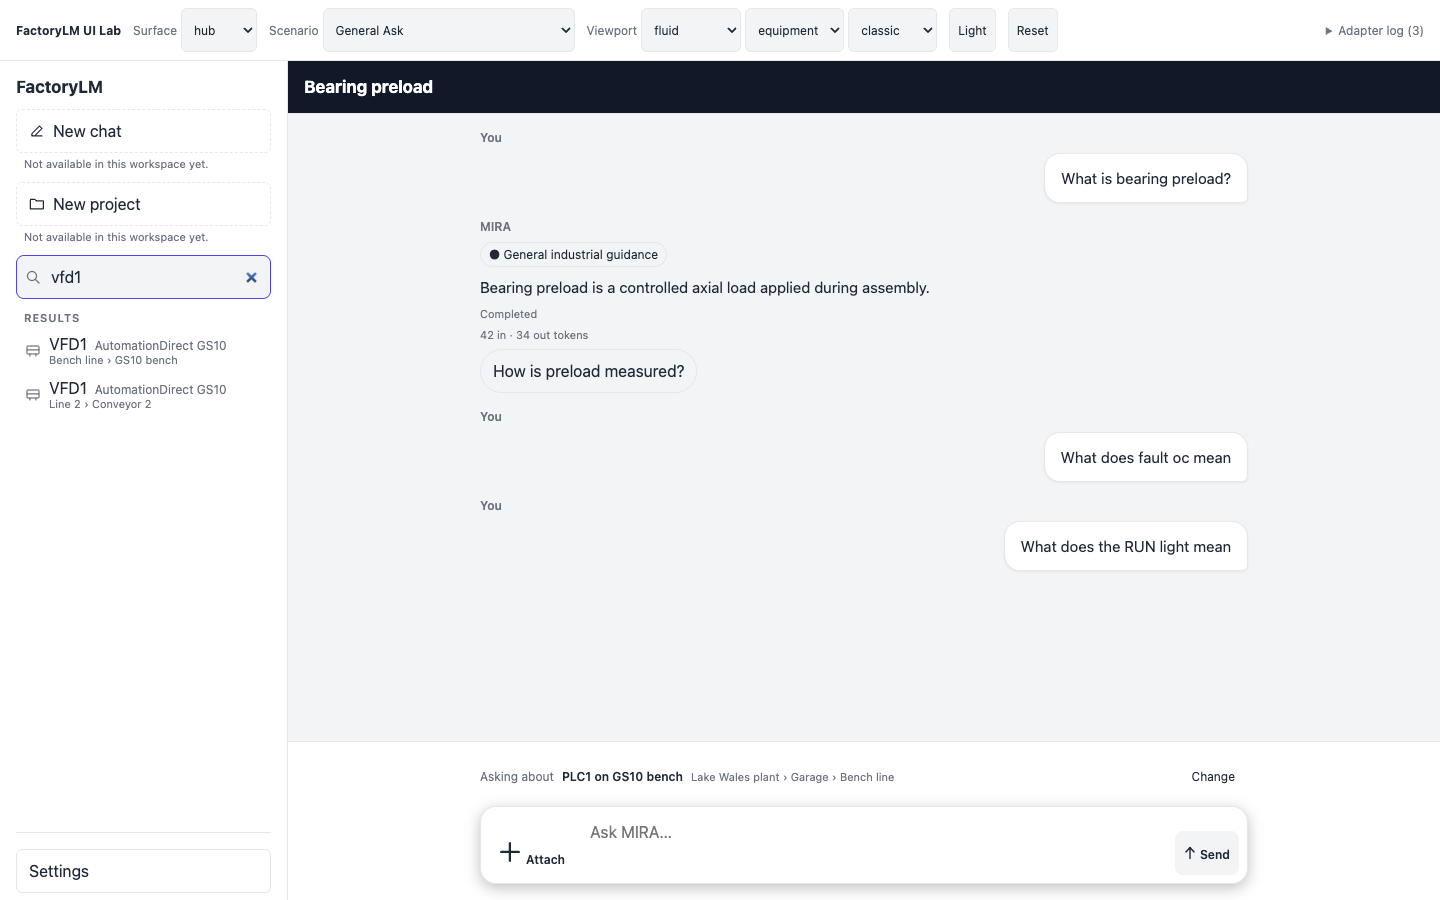
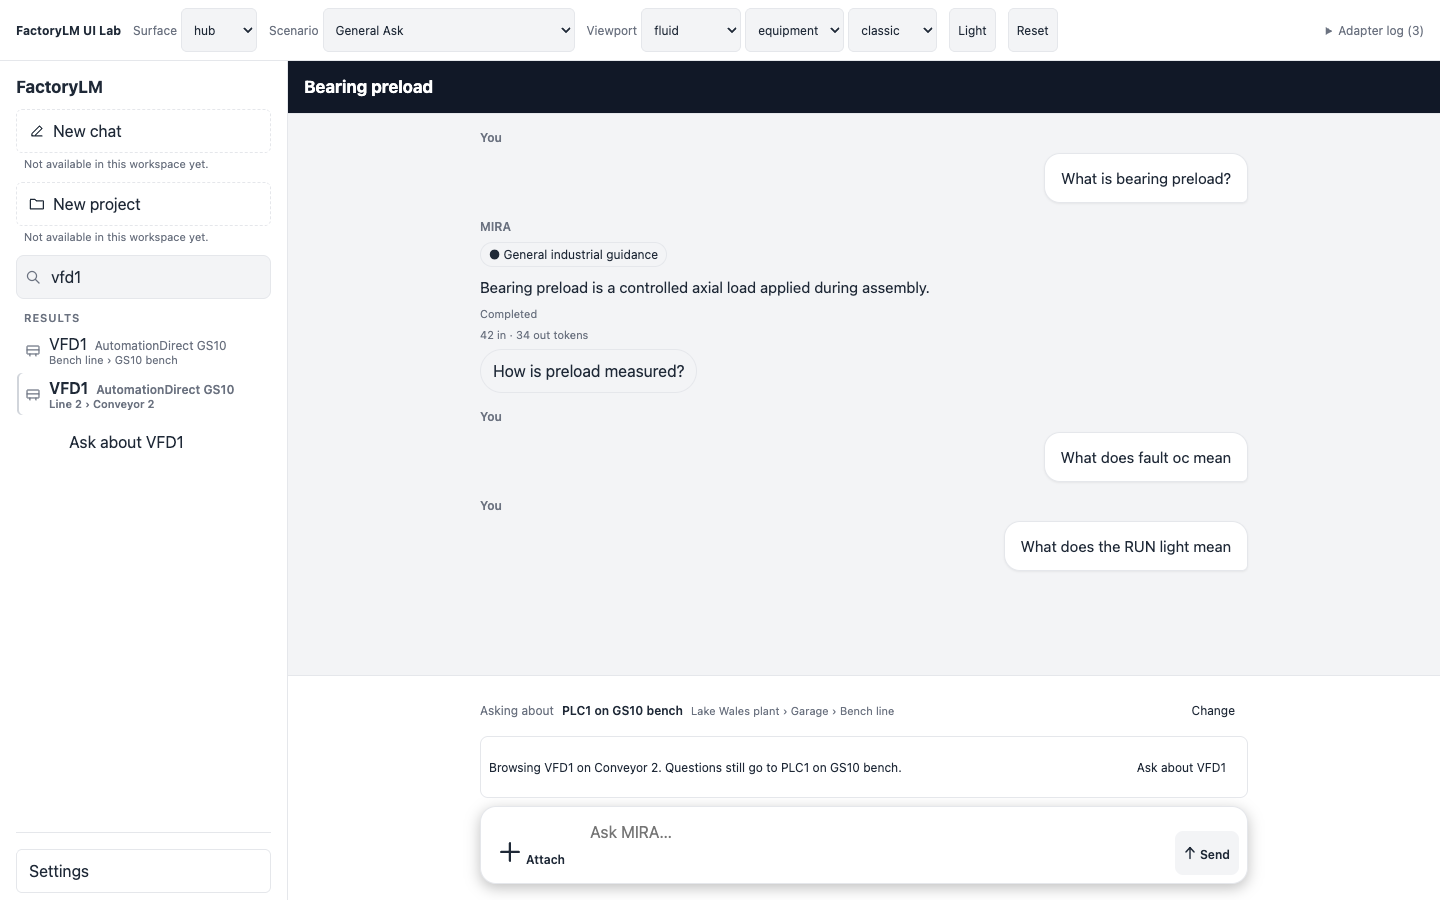
test(ui-lab): a clicked search result offers Ask about and leaves the target alone
Claude-Session: https://claude.ai/code/session_01HZ4euNKLT1inxoqnA8h4wP

diff --git a/apps/factorylm-ui-lab/e2e/equipment-nav.spec.ts b/apps/factorylm-ui-lab/e2e/equipment-nav.spec.ts
@@ -65,6 +65,10 @@ test("desktop 1440x900: browsing keeps the target; Ask about moves it; the send 
   await expect(results.locator('[data-equipment-id="c-vfd1-line2"]')).toContainText("Line 2 › Conveyor 2");
   // The browsed row keeps its full label next to the Ask about button.
   await results.locator('[data-equipment-id="c-vfd1-line2"]').click();
+  // Clicking a result only browses it: the target holds, and the result offers Ask about.
+  await expect(results.getByRole("button", { name: "Ask about VFD1" })).toBeVisible();
+  await expect(page.getByRole("status").filter({ hasText: "Questions still go to PLC1 on GS10 bench" })).toBeVisible();
+  await expect(target(page)).toHaveText("PLC1 on GS10 bench");
   const label = results.locator('[data-equipment-id="c-vfd1-line2"] .fl-equip__label');
   expect(await label.evaluate((el) => el.scrollWidth <= el.clientWidth), "label is truncated").toBe(true);
   await page.screenshot({ path: resolve(SHOTS, "2026-11-15_equipment-nav-search_desktop.png") });
